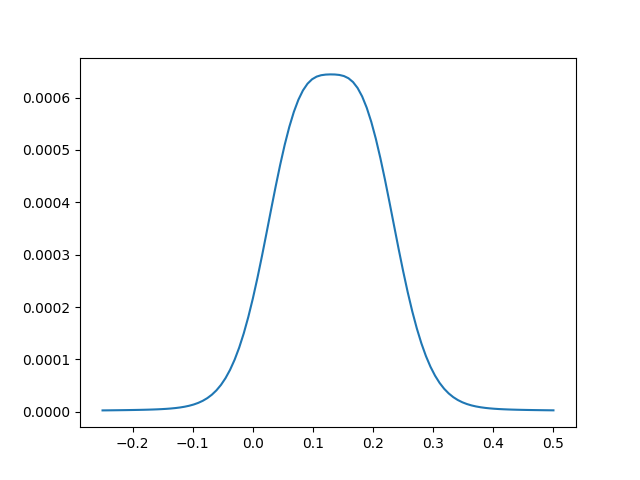
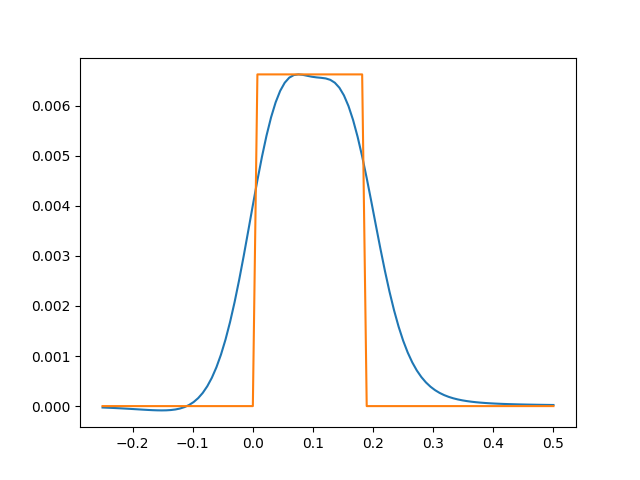
docs: completed documentation
* Closes #79.

diff --git a/analysis_scripts/coil_set_positions.py b/analysis_scripts/coil_set_positions.py
@@ -1,3 +1,13 @@
+# -*- coding: utf-8 -*-
+#
+# This file is part of MIEZE simulation.
+# Copyright (C) 2019 TUM FRM2 E21 Research Group.
+#
+# This is free software; you can redistribute it and/or modify it
+# under the terms of the MIT License; see LICENSE file for more details.
+
+"""Investigation script to find the ideal position for the two Coil Set Pairs."""
+
 import numpy as np
 from scipy.stats import chisquare
 
@@ -10,6 +20,23 @@ from utils.helper_functions import save_data_to_file, unit_square
 
 
 def minimizer_function(computed_values, expected_values, use_chisquare=False):
+    """Evaluate the similarity of the computed and expected arrays.
+
+    Parameters
+    ----------
+    computed_values: np.array
+        The array of computed values.
+    expected_values: np.array
+        The array of ideal/expeted values, used as reference.
+    use_chisquare: bool
+        Flag indicating whether to use the chisquare test.
+        In order to use chisquare, one needs arrays with at least a value of 5 in each array element.
+
+    Returns
+    -------
+    fit_value: float
+        Value indicating the similarity of the computed array to the expected one
+    """
     if use_chisquare:
         fit_value = chisquare(1e4 * np.asarray(computed_values),
                               1e4 * np.asarray(expected_values))
@@ -19,12 +46,19 @@ def minimizer_function(computed_values, expected_values, use_chisquare=False):
             dif = computed_values[j] - expected_values[j]
             fit_value += dif ** 2
         fit_value = 1 / fit_value
+
     return fit_value
 
 
 def optimize_coils_positions():
-    n = 4
-    max_distance = 0.5
+    """Compute the optimization.
+
+    Iterate over several distances for each outer coil.
+    """
+
+    n = 50
+    max_distance = 0.1
+    step = max_distance / n
 
     fits = [[0 for i in range(n)] for j in range(n)]
 
@@ -32,9 +66,10 @@ def optimize_coils_positions():
     best_fit = {'fit_value': 0, 'l12': 0, 'l34': 0}
 
     # Computational grid space
-    startpoint = -0.5  # [m]
-    endpoint = 0.75  # [m]  # Positions.get_position_coilA()
-    npoints = 200
+    startpoint = -0.25  # [m]
+    endpoint = 0.5  # [m]  # Positions.get_position_coilA()
+    npoints = int((endpoint - startpoint) / step)
+    print(npoints)
     x_positions = np.linspace(startpoint, endpoint, num=npoints)
 
     for i in range(len(l)):
@@ -61,16 +96,13 @@ def optimize_coils_positions():
     plt.imshow(fits, aspect='auto', extent=[min(l), max(l), min(l), max(l)], origin='lower')
     plt.colorbar()
 
-    plt.show()
+    # plt.show()
+    plt.savefig('../docs/experiments/MIEZE/coil_set_optimization_fine.png')
+    plt.close()
 
     # Plot values
+    print(best_fit)
     coil_set = CoilSet(position=0, distance_12=best_fit['l12'], distance_34=best_fit['l34'])
-
-    # Computational grid space
-    startpoint = -0.25  # [m]
-    endpoint = 0.5  # [m]  # Positions.get_position_coilA()
-    npoints = 100
-    x_positions = np.linspace(startpoint, endpoint, num=npoints)
 
     # Compute B_field_values
     b_field_values = coil_set.compute_b_field(x_positions)
@@ -83,7 +115,8 @@ def optimize_coils_positions():
 
     plt.plot(x_positions, ideal_b_field)
 
-    plt.show()
+    # plt.show()
+    plt.savefig('../docs/experiments/MIEZE/bfield_coil_set_fine.png')
 
 
 if __name__ == "__main__":

diff --git a/elements/coils.py b/elements/coils.py
@@ -126,27 +126,48 @@ class Coil(BaseCoil):
     """Class that implements an ideal circular coil."""
 
     def __init__(self, position, **kwargs):
-        """Simulate physical geometry of a simplified coil."""
+        """Simulate physical geometry of a simplified coil.
+
+        Parameters
+        ----------
+        Keyword Arguments:
+            current: float
+                The value of the coil current.
+            length: float
+                Coil length
+            windings: int
+                Number of coil windings.
+            wire_d: float
+                Diameter of the coil wire.
+            r_eff: float
+                The effective coil radius.
+            r_min: float
+                The inner (min) radius value for the coil.
+            r_max: float
+                The outer (max) radius value for the coil.
+        """
 
         super(Coil, self).__init__(position)
 
         self.length = kwargs.get('length', None)
+        self.current = kwargs.get('current', 0)
 
         # Place the simplified coil at the middle of the real coil
         if self.length:
             self.position_x += self.length / 2
 
         self.windings = kwargs.get('windings', None)
+        self.wire_d = kwargs.get('wire_d', 0)
 
+        # Compute the effective radius, from possibly different inputs
         r_eff = kwargs.get('r_eff', None)
         r_min = kwargs.get('r_min', None)
         r_max = kwargs.get('r_max', None)
 
-        self.wire_d = kwargs.get('wire_d', 0)
-
         if r_eff:
             self.r = r_eff
 
+        # Compute the effective radius from the min, max radiuses and the wire diameter.
         elif r_min and r_max:
             inverse_r_sum = 0
             if self.wire_d:
@@ -172,12 +193,9 @@ class Coil(BaseCoil):
         else:
             raise Exception('Radius value not set.')
 
-        self.current = kwargs.get('current', 0)
-
         self.angle_y = kwargs.get('angle_y', 0)
         self.angle_z = kwargs.get('angle_z', 0)
 
-        # print(f'windings:{self.windings}\ncurrent:{self.current}\nlength:{self.length}')
         self.prefactor *= self.windings * self.current / (2 * pi * self.length)
 
     @sanitize_output
@@ -189,10 +207,12 @@ class Coil(BaseCoil):
         x: float, int
             Position on the x axis
         rho: float, int
-            Position
+            Position in the radial direction (assuming symmetry)
+
         Returns
         -------
-
+        out: float
+            Magnetic field value in radial direction.
         """
         if rho == 0:
             return 0
@@ -215,14 +235,12 @@ class Coil(BaseCoil):
     def b_field_x(self, x, rho=0):
         """Compute the magnetic field in x direction.
 
-        # N = turns of winding, I = current (A), R = radius (m), l = length (m)
-
         Parameters
         ----------
         x: int, float
-
-        rho: int, float
             Position along the cylinder.
+        rho: int, float
+            Position in the radial direction.
 
         Returns
         -------

diff --git a/elements/coil_set.py b/elements/coil_set.py
@@ -35,10 +35,12 @@ class CoilSet(BasicElement):
         self._create_coil_set()
 
     def _create_coil_set(self):
+        """Create the two coil pairs."""
         self._create_coil_inner_set()
         self._create_coil_outer_set()
 
     def _create_coil_inner_set(self):
+        """Create the two inner coil pairs."""
         coil_inner_1 = self.coil_type(current=COIL_SET_CURRENT,
                                       length=LENGTH_COIL_INNER,
                                       position=self.first_inner_coil_pos,
@@ -56,6 +58,7 @@ class CoilSet(BasicElement):
         self.elements.append(coil_inner_2)
 
     def _create_coil_outer_set(self):
+        """Create the two outer coil pairs."""
         coil_outer_1 = self.coil_type(current=-COIL_SET_CURRENT,
                                       length=LENGTH_COIL_OUTER,
                                       position=-LENGTH_COIL_OUTER + self.first_inner_coil_pos + self.distance_12,
@@ -74,12 +77,25 @@ class CoilSet(BasicElement):
         self.elements.append(coil_outer_2)
 
     def b_field(self, x, y, z):
+        """Compute the magnetic field for one specific position.
+
+        Parameters
+        ----------
+        x
+        y
+        z
+
+        Returns
+        -------
+
+        """
         b_field = 0
         for element in self.elements:
             b_field += element.b_field(x, y, z)[0]
         return b_field
 
     def compute_b_field(self, x_positions):
+        """Compute the magnetic field for the array of positions."""
         b_values = list()
         for x in x_positions:
             b_values.append(self.b_field(x, 0, 0))

diff --git a/experiments/setup.py b/experiments/setup.py
@@ -194,12 +194,14 @@ class Setup:
         # self.setup_changed = False
 
     def get_b_vec(self):
+        """Returns the magnetic field as a vector."""
         bx = [self.b[x, 0, 0][0] for x in self.x_range]
         by = [self.b[x, 0, 0][1] for x in self.x_range]
         bz = [self.b[x, 0, 0][2] for x in self.x_range]
         return bx, by, bz
 
     def _get_plane_position(self, component, plane_position):
+        """Get the plane position from the 3D grid."""
         if component == 'z':
             component = 2
             plane_idx = self._find_nearest(self.z_range, plane_position)
@@ -216,6 +218,20 @@ class Setup:
 
     @staticmethod
     def _find_nearest(array, value):
+        """Find the nearest grid point index from the requested value.
+
+        Parameters
+        ----------
+        array: np.array
+            Array with values.
+        value: float
+            Float to be found close an array element.
+
+        Returns
+        -------
+        idx: int
+            The index of the array element closest to the value.
+        """
         array = np.asarray(array)
         idx = (np.abs(array - value).argmin())
         return idx

diff --git a/elements/base.py b/elements/base.py
@@ -12,8 +12,17 @@ from abc import abstractmethod
 
 
 class BasicElement(object):
+    """Class implementing a basic experiment element."""
 
     def __init__(self, position):
+        """Any physical element is supposed to have a position.
+
+        Parameters
+        ----------
+        position: float, tuple
+            If float, then it represents the x position.
+            Otherwise, it is the 3d position as (x, y, z).
+        """
         if type(position) == tuple:
             self.position_x, self.position_y, self.position_z = position
         else:
